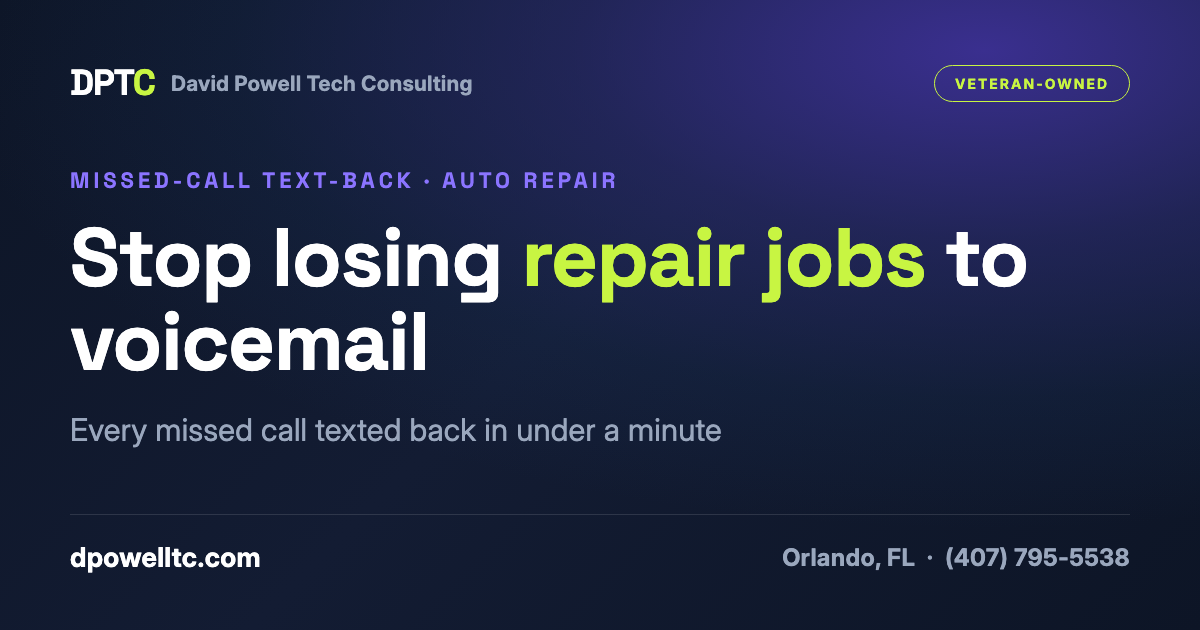
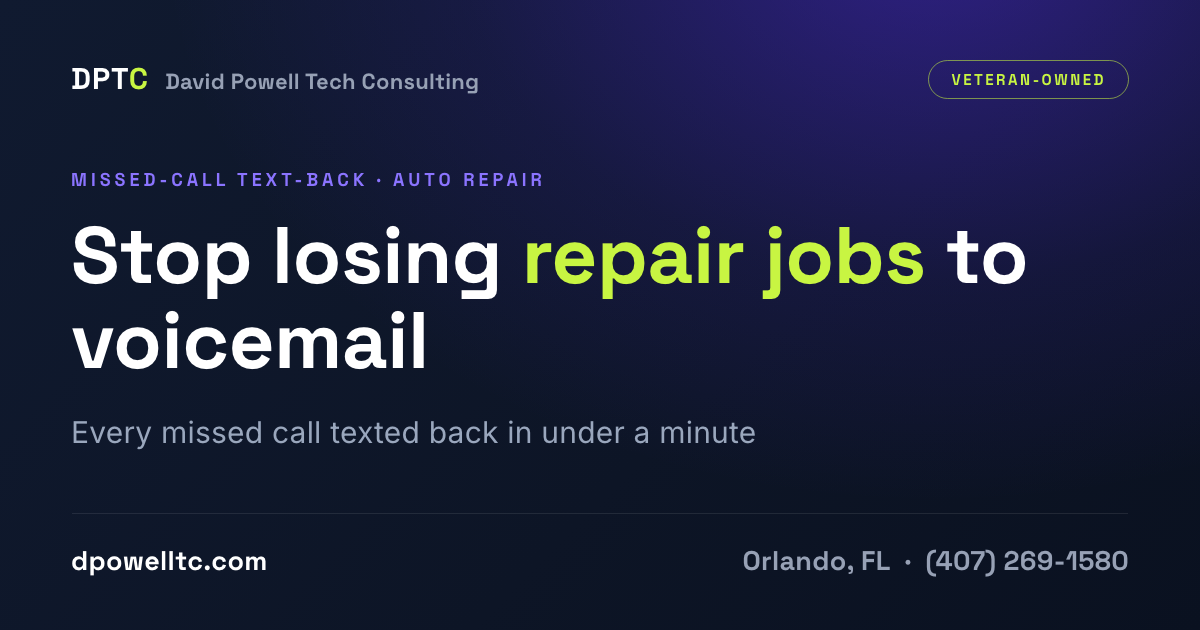
Regenerate OG share cards + audit note with (407) 269-1580
The 7 Open Graph cards had the retired phone number baked into the
PNGs; regenerated pixel-matched with the current number. Site HTML was
already correct. Also hardened out-of-repo guard to block 795-5538.

diff --git a/build/seo-onsite-audit.md b/build/seo-onsite-audit.md
@@ -17,8 +17,8 @@ Pages reviewed: `/` `/missed-call-audit` `/hvac-missed-calls`
 - **Titles:** all 9 pages 54–60 chars, unique, keyword-targeted, `| DPTC` brand
   suffix. Good.
 - **One H1 per page**, all unique and descriptive.
-- **Phone NAP is clean:** `(407) 795-5538` / `407.795.5538` / `tel:+14077955538`
-  / schema `+1-407-795-5538` on every page. No trace of the old `674-9203`.
+- **Phone NAP is clean:** `(407) 269-1580` / `407.269.1580` / `tel:+14072691580`
+  / schema `+1-407-269-1580` on every page. No trace of the old `674-9203`.
 - **Image alt text:** every `<img>` sampled has an `alt` attribute.
 - **Viewport** present and correct on all pages (mobile-ready).
 - **Analytics:** GTM + GA4 on all 9 indexable pages.
